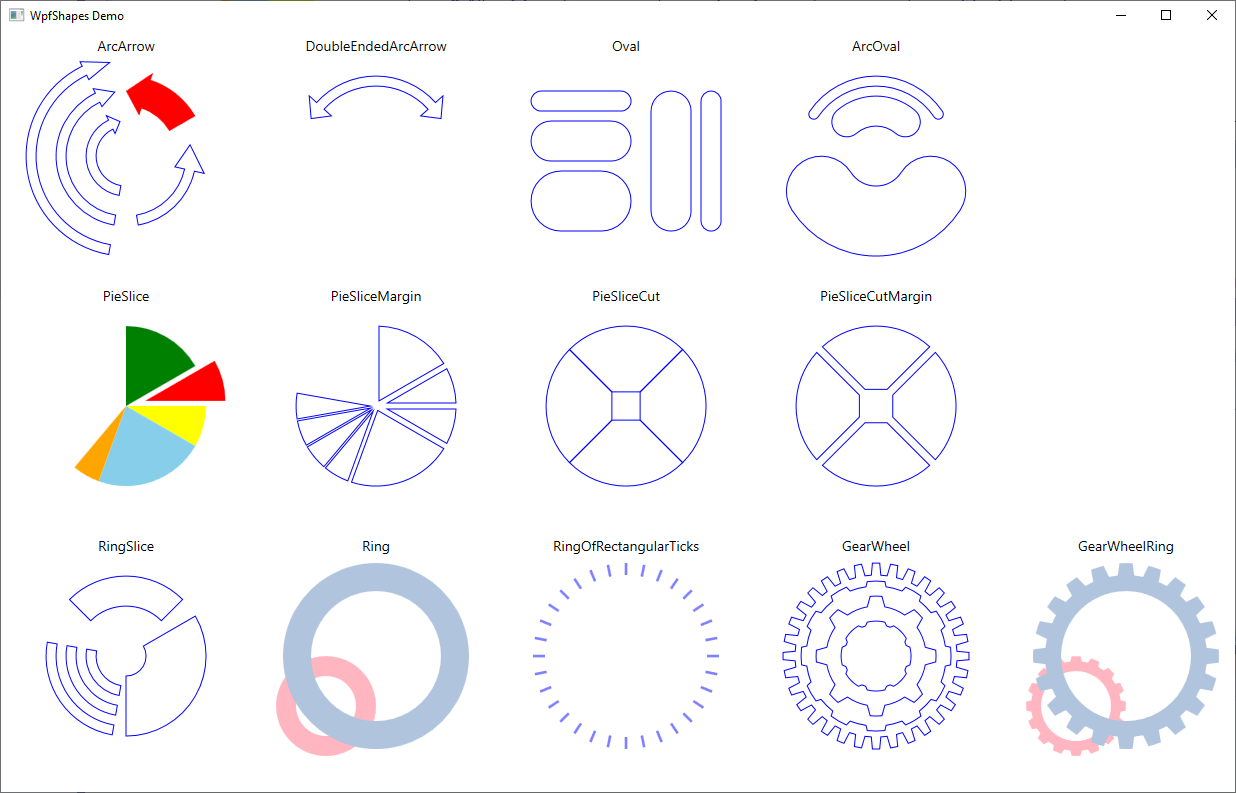
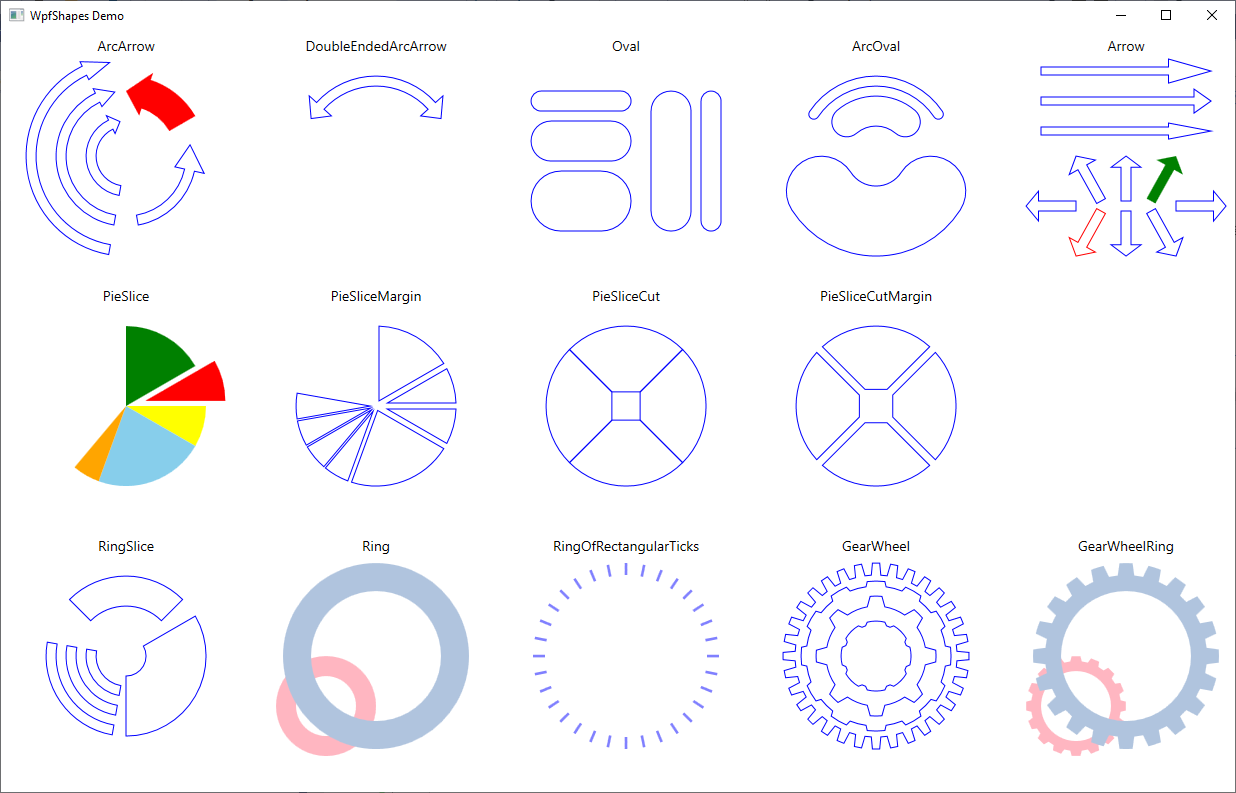
Arrow added

diff --git a/WpfShapesDemo/MainWindow.xaml b/WpfShapesDemo/MainWindow.xaml
@@ -121,6 +121,52 @@
                     Stroke="Blue" StrokeThickness="1"
                     OuterRadius="100" InnerRadius="30" StartAngle="90" EndAngle="270" Center="125,125"/>
 
+    <!-- ==================== Arrow ==================== -->
+    <TextBlock Grid.Row="0" Grid.Column="4" Text="Arrow"/>
+    <shapes:Arrow Grid.Row="0" Grid.Column="4"
+                  Stroke="Blue" StrokeThickness="1"
+                  Start="40,40" End="210,40" ShaftWidth="8"/>
+
+    <shapes:Arrow Grid.Row="0" Grid.Column="4"
+                  Stroke="Blue" StrokeThickness="1"
+                  Start="40,70" End="210,70" ShaftWidth="8" ArrowLengthRatio="0.1"/>
+
+    <shapes:Arrow Grid.Row="0" Grid.Column="4"
+                  Stroke="Blue" StrokeThickness="1"
+                  Start="40,100" End="210,100" ShaftWidth="8" ArrowLengthRatio="0.25" ArrowWidthRatio="2"/>
+
+    <shapes:Arrow Grid.Row="0" Grid.Column="4"
+                  Stroke="Blue" StrokeThickness="1"
+                  Start="125,170" End="125,125" ShaftWidth="10"/>
+
+    <shapes:Arrow Grid.Row="0" Grid.Column="4"
+                  Fill="Green"
+                  Start="150,170" End="175,125" ShaftWidth="10"/>
+
+    <shapes:Arrow Grid.Row="0" Grid.Column="4"
+                  Stroke="Blue" StrokeThickness="1"
+                  Start="100,170" End="75,125" ShaftWidth="10"/>
+
+    <shapes:Arrow Grid.Row="0" Grid.Column="4"
+                  Stroke="Blue" StrokeThickness="1"
+                  Start="175,175" End="225,175" ShaftWidth="10"/>
+
+    <shapes:Arrow Grid.Row="0" Grid.Column="4"
+                  Stroke="Blue" StrokeThickness="1"
+                  Start="75,175" End="25,175" ShaftWidth="10"/>
+
+    <shapes:Arrow Grid.Row="0" Grid.Column="4"
+                  Stroke="Blue" StrokeThickness="1"
+                  Start="150,180" End="175,225" ShaftWidth="10"/>
+
+    <shapes:Arrow Grid.Row="0" Grid.Column="4"
+                  Stroke="Red" StrokeThickness="1"
+                  Start="100,180" End="75,225" ShaftWidth="10"/>
+
+    <shapes:Arrow Grid.Row="0" Grid.Column="4"
+                  Stroke="Blue" StrokeThickness="1"
+                  Start="125,180" End="125,225" ShaftWidth="10"/>
+
     <!-- ==================== PieSlice ==================== -->
     <TextBlock Grid.Row="1" Grid.Column="0" Text="PieSlice"/>
     <shapes:PieSlice Grid.Row="1" Grid.Column="0"

diff --git a/WpfShapes/Arrow.cs b/WpfShapes/Arrow.cs
@@ -1,0 +1,162 @@
+using System;
+using System.Collections.Generic;
+using System.Diagnostics;
+using System.Linq;
+using System.Text;
+using System.Threading.Tasks;
+using System.Windows.Shapes;
+using System.Windows.Media;
+using System.Windows;
+
+namespace WpfShapes
+{
+  public class Arrow : Shape
+  {
+    private string _path = null ;
+
+    public static readonly DependencyProperty StartProperty =
+        DependencyProperty.Register ( "Start",
+                                      typeof(Point),
+                                      typeof(Arrow),
+                                      new FrameworkPropertyMetadata ( new Point(0,100),
+                                                                      FrameworkPropertyMetadataOptions.AffectsRender | FrameworkPropertyMetadataOptions.AffectsMeasure,
+                                                                      OnShapeChanged ) ) ;
+
+    public static readonly DependencyProperty EndProperty =
+        DependencyProperty.Register ( "End",
+                                      typeof(Point),
+                                      typeof(Arrow),
+                                      new FrameworkPropertyMetadata ( new Point(100,100),
+                                                                      FrameworkPropertyMetadataOptions.AffectsRender | FrameworkPropertyMetadataOptions.AffectsMeasure,
+                                                                      OnShapeChanged ) ) ;
+
+    public static readonly DependencyProperty ShaftWidthProperty =
+        DependencyProperty.Register ( "ShaftWidth",
+                                      typeof(double),
+                                      typeof(Arrow),
+                                      new FrameworkPropertyMetadata ( 20.0,
+                                                                      FrameworkPropertyMetadataOptions.AffectsRender | FrameworkPropertyMetadataOptions.AffectsMeasure,
+                                                                      OnShapeChanged ) ) ;
+
+    public static readonly DependencyProperty ArrowLengthRatioProperty =
+        DependencyProperty.Register ( "ArrowLengthRatio",
+                                      typeof(double),
+                                      typeof(Arrow),
+                                      new FrameworkPropertyMetadata ( 0.25,
+                                                                      FrameworkPropertyMetadataOptions.AffectsRender | FrameworkPropertyMetadataOptions.AffectsMeasure,
+                                                                      OnShapeChanged ) ) ;
+
+    public static readonly DependencyProperty ArrowWidthRatioProperty =
+        DependencyProperty.Register ( "ArrowWidthRatio",
+                                      typeof(double),
+                                      typeof(Arrow),
+                                      new FrameworkPropertyMetadata ( 3.0,
+                                                                      FrameworkPropertyMetadataOptions.AffectsRender | FrameworkPropertyMetadataOptions.AffectsMeasure,
+                                                                      OnShapeChanged ) ) ;
+
+    public Arrow ()
+    {
+      // Initialise the geometry with the default parameters.
+      InitializeGeometry() ;
+    }
+
+    protected override Geometry DefiningGeometry
+    {
+      get
+      {
+        return Geometry.Parse ( _path ) ;
+      }
+    }
+
+    //-------------------------------------------------------------------------
+    // Getters and setters for the dependency properties
+    //-------------------------------------------------------------------------
+    public Point Start
+    {
+      get { return (Point)GetValue(StartProperty); }
+      set { SetValue(StartProperty, value); }
+    }
+
+    public Point End
+    {
+      get { return (Point)GetValue(EndProperty); }
+      set { SetValue(EndProperty, value); }
+    }
+
+    public double ShaftWidth
+    {
+      get { return (double)GetValue(ShaftWidthProperty); }
+      set { SetValue(ShaftWidthProperty, value); }
+    }
+
+    public double ArrowLengthRatio
+    {
+      get { return Convert.ToDouble(GetValue(ArrowLengthRatioProperty)); }
+      set { SetValue(ArrowLengthRatioProperty, value); }
+    }
+
+    public double ArrowWidthRatio
+    {
+      get { return Convert.ToDouble(GetValue(ArrowWidthRatioProperty)); }
+      set { SetValue(ArrowWidthRatioProperty, value); }
+    }
+
+    //-------------------------------------------------------------------------
+    // Property changed callbacks
+    //-------------------------------------------------------------------------
+    public static void OnShapeChanged ( DependencyObject d, DependencyPropertyChangedEventArgs e )
+    {
+      var aa = d as Arrow ;
+      aa.InitializeGeometry() ;
+    }
+
+    //-------------------------------------------------------------------------
+    // Member functions
+    //-------------------------------------------------------------------------
+    private void InitializeGeometry()
+    {
+      double len_x  = End.X - Start.X ;
+      double len_y  = End.Y - Start.Y ;
+      double length = Math.Sqrt ( len_x*len_x + len_y*len_y ) ;
+
+      // Don't go dividing by zero
+      if ( length > 0.0 )
+      {
+        // In this shape we measure the angle CLOCKWISE from the 'X' axis and
+        // define sine and cosine correspondingly. An arrow starting at (0,0) and
+        // pointing to the right would have the angle 0.
+        double s1 = len_y / length ;
+        double c1 = len_x / length ;
+
+        double halfWidth   = ShaftWidth / 2.0 ;
+        double shaftLength = length * ( 1 - ArrowLengthRatio ) ;
+        double headWidth   = ShaftWidth * ArrowWidthRatio ;
+        double headStep    = ( headWidth - ShaftWidth ) / 2.0 ;
+
+        var p1 = new Point ( Start.X + halfWidth   * s1 , Start.Y - halfWidth   * c1 ) ;
+        var p2 = new Point ( p1.X    + shaftLength * c1 , p1.Y    + shaftLength * s1 ) ;
+        var p3 = new Point ( p2.X    + headStep    * s1 , p2.Y    - headStep    * c1 ) ;
+        var p4 = End ;
+        var p5 = new Point ( p3.X    - headWidth   * s1 , p3.Y    + headWidth   * c1 ) ;
+        var p6 = new Point ( p2.X    - ShaftWidth  * s1 , p2.Y    + ShaftWidth  * c1 ) ;
+        var p7 = new Point ( p1.X    - ShaftWidth  * s1 , p1.Y    + ShaftWidth  * c1 ) ;
+
+        var sb = new StringBuilder() ;
+
+        sb.AppendFormat ( "M {0:F3},{1:F3} ", p1.X, p1.Y ) ;
+        sb.AppendFormat ( "L {0:F3},{1:F3} ", p2.X, p2.Y ) ;
+        sb.AppendFormat ( "L {0:F3},{1:F3} ", p3.X, p3.Y ) ;
+        sb.AppendFormat ( "L {0:F3},{1:F3} ", p4.X, p4.Y ) ;
+        sb.AppendFormat ( "L {0:F3},{1:F3} ", p5.X, p5.Y ) ;
+        sb.AppendFormat ( "L {0:F3},{1:F3} ", p6.X, p6.Y ) ;
+        sb.AppendFormat ( "L {0:F3},{1:F3} ", p7.X, p7.Y ) ;
+        sb.Append ( "Z " ) ;
+
+        _path = sb.ToString() ;
+
+        Debug.WriteLine ( _path ) ;
+      }
+    }
+
+  }
+}
